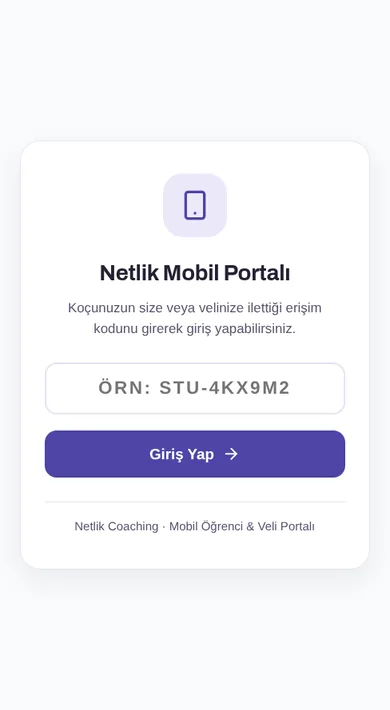
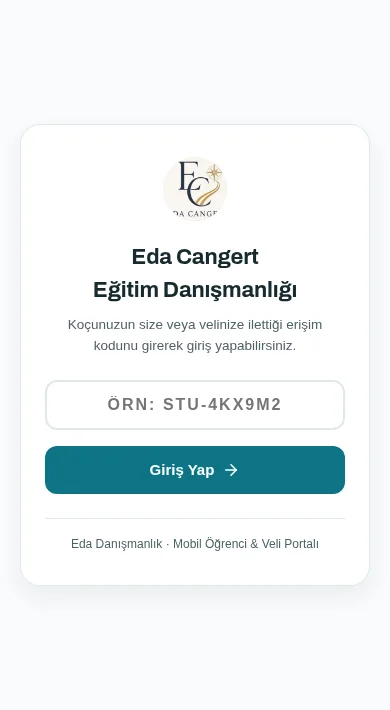
feat(marka): gorunen ad Eda Danismanlik, tek kaynak src/lib/brand.ts
Menu, sekme basligi, giris/kayit/portal, WhatsApp imzalari ve davet
mesajlari yeni adi kullaniyor; portal girisine logo eklendi; Yardim v0.32.
Ic anahtarlar (netlik_* localStorage, slug, adres, @netlik.app) degismedi.

Changed region(s): [[0.0923, 0.5268, 0.8923, 0.7746], [0.1538, 0.3408, 0.8308, 0.4958], [0.4615, 0.2169, 0.5846, 0.3099]]

diff --git a/src/lib/attendance.ts b/src/lib/attendance.ts
@@ -2,6 +2,7 @@
 // yardımcıları ve WhatsApp mesaj şablonları. Tablo, modal ve bildirim akışının
 // üçü de buradan besleniyor — sayfa dosyasına dağıtılmadı (tek kaynak).
 import type { AbsenceStatus, AttendanceRecord, ExcuseType, NotifyTarget, SessionType, Student } from '../types/database'
+import { BRAND_SHORT } from './brand'
 
 export const SESSION_LABELS: Record<SessionType, string> = {
   birebir: 'Birebir',
@@ -112,17 +113,17 @@ export function buildStudentMessage(studentName: string, record: AttendanceRecor
   const dateLabel = formatDateTr(record.absence_date)
   const sessionLabel = SESSION_LABELS[record.session_type]
   if (record.excuse_type === 'yok') {
-    return `Merhaba ${studentName}, ${dateLabel} tarihli ${sessionLabel} çalışmasına katılmadın ve bir mazeret bildirilmedi. Lütfen en kısa sürede iletişime geç. — Netlik Koçluk`
+    return `Merhaba ${studentName}, ${dateLabel} tarihli ${sessionLabel} çalışmasına katılmadın ve bir mazeret bildirilmedi. Lütfen en kısa sürede iletişime geç. — ${BRAND_SHORT}`
   }
   const excuseLabel = EXCUSE_LABELS[record.excuse_type]
-  return `Merhaba ${studentName}, ${dateLabel} tarihli ${sessionLabel} çalışmana katılamadığını kaydettik. Mazeret: ${excuseLabel}. Kaçırdığın konuları telafi etmek için en kısa sürede planlama yapalım. — Netlik Koçluk`
+  return `Merhaba ${studentName}, ${dateLabel} tarihli ${sessionLabel} çalışmana katılamadığını kaydettik. Mazeret: ${excuseLabel}. Kaçırdığın konuları telafi etmek için en kısa sürede planlama yapalım. — ${BRAND_SHORT}`
 }
 
 export function buildParentMessage(studentName: string, record: AttendanceRecord): string {
   const dateLabel = formatDateTr(record.absence_date)
   const sessionLabel = SESSION_LABELS[record.session_type]
   const excuseLabel = record.excuse_type === 'yok' ? 'bildirilmedi' : EXCUSE_LABELS[record.excuse_type]
-  return `Merhaba, ${studentName} ${dateLabel} tarihli ${sessionLabel} çalışmasına katılmadı. Mazeret: ${excuseLabel}. Bilginize. — Netlik Koçluk`
+  return `Merhaba, ${studentName} ${dateLabel} tarihli ${sessionLabel} çalışmasına katılmadı. Mazeret: ${excuseLabel}. Bilginize. — ${BRAND_SHORT}`
 }
 
 export function buildParentSummaryMessage(
@@ -133,7 +134,7 @@ export function buildParentSummaryMessage(
   unexcused: number,
   lastDateLabel: string
 ): string {
-  return `Merhaba, ${studentName} için devamsızlık özeti (${startLabel}–${endLabel}): toplam ${total} devamsızlık, ${unexcused} tanesi mazeretsiz. Son devamsızlık: ${lastDateLabel}. Görüşmek üzere. — Netlik Koçluk`
+  return `Merhaba, ${studentName} için devamsızlık özeti (${startLabel}–${endLabel}): toplam ${total} devamsızlık, ${unexcused} tanesi mazeretsiz. Son devamsızlık: ${lastDateLabel}. Görüşmek üzere. — ${BRAND_SHORT}`
 }
 
 /**

diff --git a/src/pages/mobile/PortalAccessPage.tsx b/src/pages/mobile/PortalAccessPage.tsx
@@ -1,7 +1,8 @@
 import { useState, useEffect, useCallback } from 'react'
 import { useNavigate, useSearchParams } from 'react-router-dom'
 import { portalLogin, savePortalSession } from '../../lib/portal'
-import { Smartphone, ArrowRight } from 'lucide-react'
+import { ArrowRight } from 'lucide-react'
+import { BRAND_LONG, BRAND_SHORT } from '../../lib/brand'
 
 export default function PortalAccessPage() {
   const [searchParams] = useSearchParams()
@@ -64,20 +65,20 @@ export default function PortalAccessPage() {
           style={{
             width: 64,
             height: 64,
-            borderRadius: 20,
-            backgroundColor: 'var(--indigo-050)',
-            color: 'var(--indigo-600)',
+            borderRadius: '50%',
+            overflow: 'hidden',
+            backgroundColor: '#F6EFDD',
             display: 'flex',
             alignItems: 'center',
             justifyContent: 'center',
             margin: '0 auto 20px auto',
           }}
         >
-          <Smartphone size={32} />
+          <img src="/logo.png" alt="" style={{ width: '118%', height: '118%', objectFit: 'cover' }} />
         </div>
 
         <h1 style={{ fontSize: 22, fontWeight: 800, color: 'var(--ink)', marginBottom: 8 }}>
-          Netlik Mobil Portalı
+          {BRAND_LONG}
         </h1>
         <p style={{ fontSize: 13.5, color: 'var(--ink-soft)', marginBottom: 24, lineHeight: 1.5 }}>
           Koçunuzun size veya velinize ilettiği erişim kodunu girerek giriş yapabilirsiniz.
@@ -147,7 +148,7 @@ export default function PortalAccessPage() {
         </form>
 
         <div style={{ marginTop: 24, paddingTop: 16, borderTop: '1px solid var(--border)', fontSize: 12, color: 'var(--ink-soft)' }}>
-          Netlik Coaching · Mobil Öğrenci & Veli Portalı
+          {`${BRAND_SHORT} · Mobil Öğrenci & Veli Portalı`}
         </div>
       </div>
     </div>

diff --git a/src/components/layout/Sidebar.tsx b/src/components/layout/Sidebar.tsx
@@ -23,6 +23,7 @@ import {
 } from 'lucide-react'
 import { useAuth } from '../../contexts/AuthContext'
 import { useAccess } from '../../contexts/AccessContext'
+import { BRAND_SHORT, BRAND_TAGLINE } from '../../lib/brand'
 import type { PermissionKey } from '../../lib/permissions'
 import { useSidebar } from '../../contexts/useSidebar'
 import { useHomeSummary } from '../../contexts/homeSummaryContext'
@@ -161,6 +162,8 @@ export default function Sidebar() {
     ? activeMembership.role_name
     : profile?.role ?? 'Koç'
 
+  const showInstitutionSelector = isSystemAdmin || memberships.length > 1
+
   // Kurum secim kontrolu
   const instNameLower = activeMembership?.institution_name.toLowerCase() ?? ''
 
@@ -174,8 +177,8 @@ export default function Sidebar() {
     activeMembership.is_coaching_practice ||
     instNameLower.includes('netlik')
 
-  let brandTitle = 'Netlik'
-  let brandSub = 'Eda Cangert · YKS Koçluk'
+  let brandTitle = BRAND_SHORT
+  let brandSub = BRAND_TAGLINE
   let brandLogo = '/logo.png'
 
   if (isKonseptSelected) {
@@ -183,8 +186,8 @@ export default function Sidebar() {
     brandSub = activeMembership?.role_name ?? 'Eğitim Kurumu'
     brandLogo = '/logo-konsept.png'
   } else if (isNetlikSelected) {
-    brandTitle = 'Netlik'
-    brandSub = 'Eda Cangert · YKS Koçluk'
+    brandTitle = !activeInstitutionId && showInstitutionSelector ? 'Tüm Kurumlar' : BRAND_SHORT
+    brandSub = BRAND_TAGLINE
     brandLogo = '/logo.png'
   } else if (activeMembership) {
     brandTitle = activeMembership.institution_name
@@ -206,8 +209,6 @@ export default function Sidebar() {
     : isNetlikSelected
     ? 'netlik'
     : `diger-${institutionColorIndex(activeInstitutionId)}`
-
-  const showInstitutionSelector = isSystemAdmin || memberships.length > 1
 
   return (
     <aside

diff --git a/src/pages/yonetim/KullanicilarPage.tsx b/src/pages/yonetim/KullanicilarPage.tsx
@@ -6,6 +6,7 @@ import { useAccess } from '../../contexts/useAccess'
 import PageHeader from '../../components/layout/PageHeader'
 import type { Membership, Invitation, Role, Profile } from '../../types/database'
 import { openWhatsAppChat } from '../../lib/whatsapp'
+import { BRAND_LONG } from '../../lib/brand'
 
 type MemberWithDetails = Membership & {
   profiles: Profile | null
@@ -276,7 +277,7 @@ export default function KullanicilarPage() {
                             onClick={() =>
                               openWhatsAppChat(
                                 '',
-                                `Merhaba, Netlik Koçluk sistemine davet edildiniz. Kayıt olmak için bağlantı: ${inviteUrl}`
+                                `Merhaba, ${BRAND_LONG} sistemine davet edildiniz. Kayıt olmak için bağlantı: ${inviteUrl}`
                               )
                             }
                           >
@@ -434,7 +435,7 @@ export default function KullanicilarPage() {
                     onClick={() =>
                       openWhatsAppChat(
                         '',
-                        `Merhaba, Netlik Koçluk sistemine davet edildiniz. Kayıt linkiniz: ${inviteResultLink}`
+                        `Merhaba, ${BRAND_LONG} sistemine davet edildiniz. Kayıt linkiniz: ${inviteResultLink}`
                       )
                     }
                   >

diff --git a/src/pages/OgrencilerPage.tsx b/src/pages/OgrencilerPage.tsx
@@ -5,6 +5,7 @@ import {
   CheckSquare, MoreVertical, MessageCircle, Smartphone, UserX,
 } from 'lucide-react'
 import { supabase, isSupabaseConfigured } from '../lib/supabase'
+import { BRAND_LONG } from '../lib/brand'
 import PageHeader from '../components/layout/PageHeader'
 import ProgressRing from '../components/charts/ProgressRing'
 import AddStudentModal from '../components/students/AddStudentModal'
@@ -45,8 +46,8 @@ async function sendPortalLink(student: Student, target: 'ogrenci' | 'veli') {
 
   const msg =
     target === 'ogrenci'
-      ? `Merhaba ${student.full_name}, Netlik mobil öğrenci portalına buradan girebilirsin:\n${link}\n\nErişim kodun: ${code}\nBu kodu kimseyle paylaşma.`
-      : `Merhaba, ${student.full_name} için Netlik veli bilgilendirme portalı:\n${link}\n\nErişim kodunuz: ${code}\nBu kodu kimseyle paylaşmayın.`
+      ? `Merhaba ${student.full_name}, ${BRAND_LONG} mobil öğrenci portalına buradan girebilirsin:\n${link}\n\nErişim kodun: ${code}\nBu kodu kimseyle paylaşma.`
+      : `Merhaba, ${student.full_name} için ${BRAND_LONG} veli bilgilendirme portalı:\n${link}\n\nErişim kodunuz: ${code}\nBu kodu kimseyle paylaşmayın.`
 
   if (phone) {
     openWhatsAppChat(phone, msg)

diff --git a/src/pages/RegisterPage.tsx b/src/pages/RegisterPage.tsx
@@ -2,6 +2,7 @@ import { useState, useEffect, type FormEvent } from 'react'
 import { useNavigate, useSearchParams, Link } from 'react-router-dom'
 import { supabase, isSupabaseConfigured } from '../lib/supabase'
 import AuthShell from '../components/auth/AuthShell'
+import { BRAND_LONG } from '../lib/brand'
 
 export default function RegisterPage() {
   const [searchParams] = useSearchParams()
@@ -175,7 +176,7 @@ export default function RegisterPage() {
             <img src="/logo.png" alt="" width={48} height={48} style={{ width: '118%', height: '118%', objectFit: 'cover' }} />
           </div>
           <div>
-            <div style={{ fontFamily: 'var(--font-disp)', fontWeight: 700, fontSize: 17 }}>Netlik</div>
+            <div style={{ fontFamily: 'var(--font-disp)', fontWeight: 700, fontSize: 17 }}>{BRAND_LONG}</div>
             <div style={{ fontSize: 12, color: 'var(--ink-soft)' }}>Davet ile Kayıt Ol</div>
           </div>
         </div>

diff --git a/src/lib/parentSummaryCore.ts b/src/lib/parentSummaryCore.ts
@@ -2,6 +2,7 @@ import { fmtWeekRange } from './weeks'
 import type { AttendanceRecord, MockExam, Student, WeeklyTask } from '../types/database'
 import type { PortalAttendance, PortalExam, PortalStudent, PortalTask } from './portal'
 import { formatNetTr } from './homeSummaryCore'
+import { BRAND_SHORT } from './brand'
 
 export type ParentSupportTipInput = {
   completionPct: number
@@ -185,7 +186,7 @@ export function buildParentSummaryWhatsAppMessage(params: {
   const cleanNote = coachNote?.trim()
   const coachNoteSection = cleanNote ? `\n\n📝 *Koçun Notu:*\n"${cleanNote}"` : ''
 
-  const footer = `\n\nİyi haftalar dileriz. — Netlik Koçluk`
+  const footer = `\n\nİyi haftalar dileriz. — ${BRAND_SHORT}`
 
   return `${greeting}\n\n${intro}\n\n${taskLine}${examLine}${attendanceLine}${tipsSection}${coachNoteSection}${footer}`
 }

diff --git a/src/lib/examShare.ts b/src/lib/examShare.ts
@@ -1,6 +1,7 @@
 import type { MockExamSection, MockExam } from '../types/database'
 import { weightedNet } from './examSections'
 import { formatNetTr } from './homeSummaryCore'
+import { BRAND_SHORT } from './brand'
 
 // Deneme sonucunun WhatsApp mesajı. WhatsApp kalın metni *yıldız* ile gösterir.
 // Devamsızlık bildirimleriyle aynı ton: öğrenciye doğrudan, veliye bilgilendirme.
@@ -51,8 +52,8 @@ export function buildExamResultMessage(
 
   const footer =
     target === 'ogrenci'
-      ? '\n\nEksik kaldığın bölümleri bu haftaki programa ekleyelim. — Netlik Koçluk'
-      : '\n\nBilginize. — Netlik Koçluk'
+      ? `\n\nEksik kaldığın bölümleri bu haftaki programa ekleyelim. — ${BRAND_SHORT}`
+      : `\n\nBilginize. — ${BRAND_SHORT}`
 
   return `${header}\n${meta}\n${body}${footer}`
 }

diff --git a/src/components/help/VersionHistory.tsx b/src/components/help/VersionHistory.tsx
@@ -15,6 +15,20 @@ interface DateGroup {
 
 const HISTORY: DateGroup[] = [
   {
+    date: '2 Kasım 2026',
+    entries: [
+      {
+        version: 'v0.32',
+        title: 'Öğrenci ve veli portalı düzeltildi, kurum adı güncellendi',
+        items: [
+          'Öğrenci ve veli portalının girişten sonra "Bağlantı kurulamadı" hatası vermesi giderildi.',
+          'Uygulamadaki marka adı Eda Cangert Eğitim Danışmanlığı (kısa adı Eda Danışmanlık) olarak güncellendi; WhatsApp mesajlarındaki imza da buna dahil.',
+          'Portal giriş ekranına logo eklendi.',
+        ],
+      },
+    ],
+  },
+  {
     date: '27 Ekim 2026',
     entries: [
       {

diff --git a/src/components/auth/AuthShell.tsx b/src/components/auth/AuthShell.tsx
@@ -1,4 +1,5 @@
 import { type ReactNode } from 'react'
+import { BRAND_LONG, BRAND_TAGLINE } from '../../lib/brand'
 
 /**
  * Giriş/kayıt/şifre ekranlarının ortak çerçevesi. Bu ekranlar AppShell'in dışında
@@ -22,8 +23,8 @@ export default function AuthShell({
           <img src="/logo.png" alt="" width={52} height={52} />
         </div>
         <div>
-          <div className="auth-brand-title">Netlik</div>
-          <div className="auth-brand-sub">Eda Cangert · YKS Koçluk</div>
+          <div className="auth-brand-title">{BRAND_LONG}</div>
+          <div className="auth-brand-sub">{BRAND_TAGLINE}</div>
         </div>
       </div>
 

diff --git a/src/pages/YardimPage.tsx b/src/pages/YardimPage.tsx
@@ -157,8 +157,8 @@ export default function YardimPage() {
         title="Yardım"
         subtitle={
           tab === 'rehber'
-            ? "Netlik'i ilk kez mi kullanıyorsun? Her ekranın ne işe yaradığı ve ne zaman kullanılacağı aşağıda."
-            : "Netlik'e en başından beri ne zaman ne eklendiğinin tam listesi."
+            ? "Paneli ilk kez mi kullanıyorsun? Her ekranın ne işe yaradığı ve ne zaman kullanılacağı aşağıda."
+            : "Panele en başından beri ne zaman ne eklendiğinin tam listesi."
         }
       />
 

diff --git a/scripts/parentSummary.selftest.ts b/scripts/parentSummary.selftest.ts
@@ -139,7 +139,7 @@ console.log('▶ R3-6 Veli Haftalık Özeti Öz-Testi Başlatılıyor...\n')
   assert.ok(msg.includes('Hedef: 90'))
   assert.ok(msg.includes('Bu hafta matematik soru çözümünde iyi bir gayret gösterdi.'))
   assert.ok(msg.includes('Evde Nasıl Destek Olabilirsiniz?'))
-  assert.ok(msg.includes('Netlik Koçluk'))
+  assert.ok(msg.includes('Eda Danışmanlık'))
 }
 
 console.log('✓ Tüm R3-6 testleri başarıyla geçti!\n')
